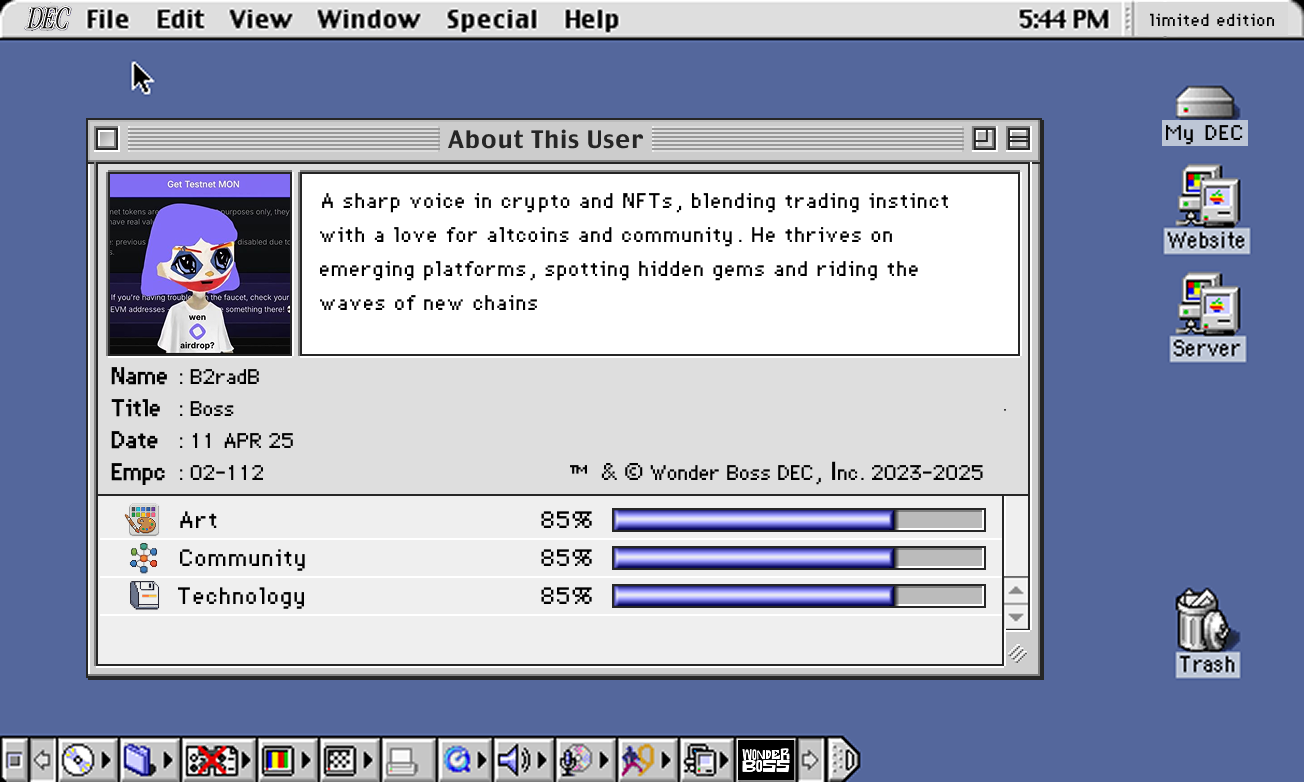
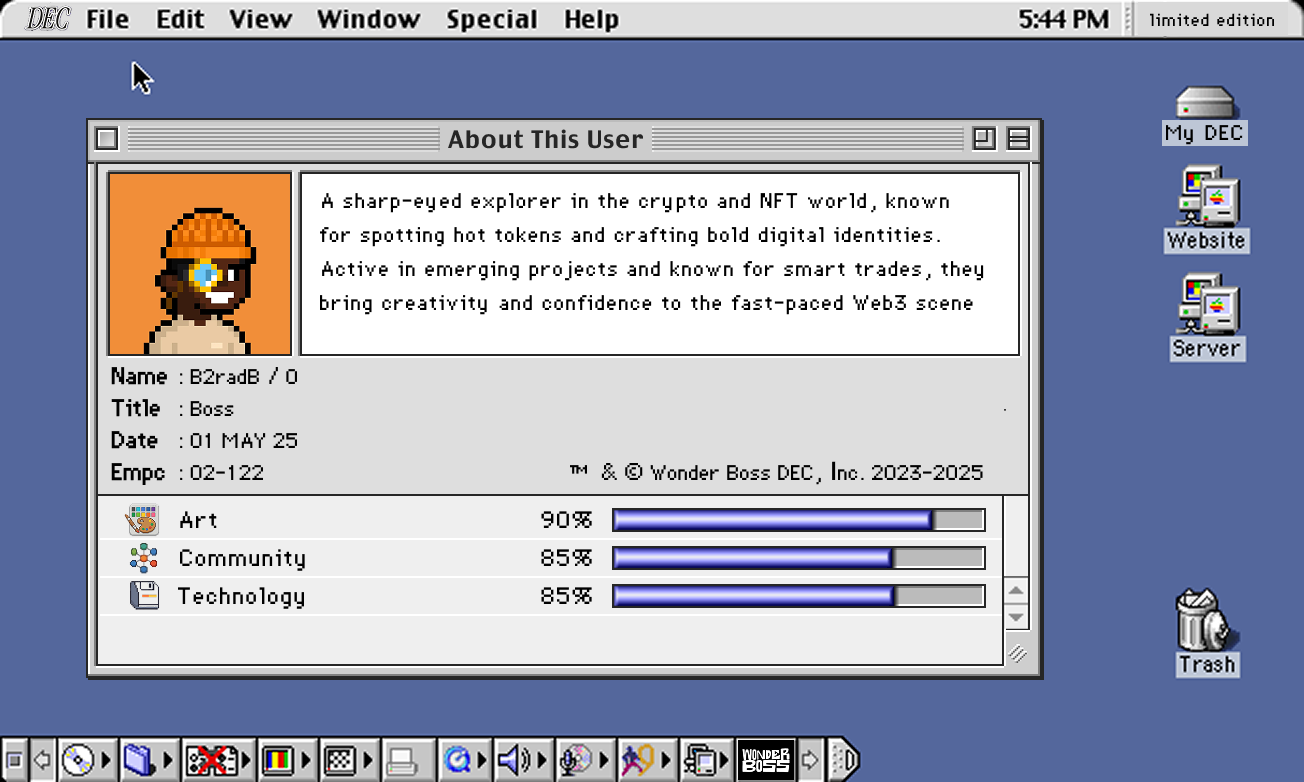
more cards added

diff --git a/app/gallery/page.js b/app/gallery/page.js
@@ -46,8 +46,7 @@ export default function GalleryPage() {
     { name: "JumpStre3t", src: "/cards/JumpStre3t.png" },
     { name: "Kangmasutra", src: "/cards/Kangmasutra.png" },
     { name: "Kennyakins10", src: "/cards/Kennyakins10.png" },
-    { name: "kenny_web_3-a", src: "/cards/kenny_web_3-a.png" },
-    { name: "kenny_web_3", src: "/cards/kenny_web_3.png" },
+    { name: "kenny_web_3", src: "/cards/kenny_web_3-a.png" },
     { name: "kuma_baum", src: "/cards/kuma_baum.png" },
     { name: "kuyajoy_", src: "/cards/kuyajoy_.png" },
     { name: "Lapponic", src: "/cards/Lapponic.png" },
@@ -64,7 +63,6 @@ export default function GalleryPage() {
     { name: "psykoin_", src: "/cards/psykoin_.png" },
     { name: "R3M30", src: "/cards/R3M30.png" },
     { name: "R4M3O", src: "/cards/R4M3O.png" },
-    { name: "R4M3O3", src: "/cards/R4M3O3.png" },
     { name: "rolyttt", src: "/cards/rolyttt.png" },
     { name: "RugDodger", src: "/cards/RugDodger.png" },
     { name: "Seeker87070888", src: "/cards/Seeker87070888.png" },
@@ -77,7 +75,6 @@ export default function GalleryPage() {
     { name: "tHaCrYpToNiNjA", src: "/cards/tHaCrYpToNiNjA.png" },
     { name: "thechaachi", src: "/cards/thechaachi.png" },
     { name: "TheChang_NFT", src: "/cards/TheChang_NFT.png" },
-    { name: "TheChang_NFT2", src: "/cards/TheChang_NFT2.png" },
     { name: "theHAWKdiamond", src: "/cards/theHAWKdiamond.png" },
     { name: "TheSavageSuit", src: "/cards/TheSavageSuit.png" },
     { name: "Tmac_SOL", src: "/cards/Tmac_SOL.png" },
@@ -86,6 +83,58 @@ export default function GalleryPage() {
     { name: "web3_Adri", src: "/cards/web3_Adri.png" },
     { name: "webzy_eth", src: "/cards/webzy_eth.png" },
     { name: "zsolt_patko", src: "/cards/zsolt_patko.png" },
+    { name: "0xfoxx150283", src: "/cards/0xfoxx150283.png" },
+    { name: "aethereums", src: "/cards/aethereums.png" },
+    { name: "Brotomtom", src: "/cards/Brotomtom.png" },
+    { name: "Cris_br_Sol", src: "/cards/Cris_br_Sol.png" },
+    { name: "ghridoy07", src: "/cards/ghridoy07.png" },
+    { name: "gr0uch_", src: "/cards/gr0uch_.png" },
+    { name: "GurhanKutsal", src: "/cards/GurhanKutsal.png" },
+    { name: "Hengki1993", src: "/cards/Hengki1993.png" },
+    { name: "Itachi_On_Chain", src: "/cards/Itachi_On_Chain.png" },
+    { name: "Japs421861", src: "/cards/Japs421861.png" },
+    { name: "Just_los420", src: "/cards/Just_los420.png" },
+    { name: "kramrogNL", src: "/cards/kramrogNL.png" },
+    { name: "Meekisokay", src: "/cards/Meekisokay.png" },
+    { name: "nahimoxf21", src: "/cards/nahimoxf21.png" },
+    { name: "phardy_lekx", src: "/cards/phardy_lekx.png" },
+    { name: "ReeceSolana", src: "/cards/ReeceSolana.png" },
+    { name: "stepn_br", src: "/cards/stepn_br.png" },
+    { name: "lostsol404", src: "/cards/lostsol404.png" },
+    { name: "Smile_Boy_Vibes", src: "/cards/Smile_Boy_Vibes.png" },
+    { name: "0xkidzrich", src: "/cards/0xkidzrich.png" },
+    { name: "Afridi1065616", src: "/cards/Afridi1065616.png" },
+    { name: "BucksBongs", src: "/cards/BucksBongs.png" },
+    { name: "byKrucial", src: "/cards/byKrucial.png" },
+    { name: "geezyart001", src: "/cards/geezyart001.png" },
+    { name: "hapahilo", src: "/cards/hapahilo.png" },
+    { name: "JazzyCripto", src: "/cards/JazzyCripto.png" },
+    { name: "luckysol777", src: "/cards/luckysol777.png" },
+    { name: "MadameFUD", src: "/cards/MadameFUD.png" },
+    { name: "NFTxMAX", src: "/cards/NFTxMAX.png" },
+    { name: "nirvana_aditya", src: "/cards/nirvana_aditya.png" },
+    { name: "obiwanmama", src: "/cards/obiwanmama.png" },
+    { name: "reidonchain", src: "/cards/reidonchain.png" },
+    { name: "schlamber_", src: "/cards/schlamber_.png" },
+    { name: "sguest92", src: "/cards/sguest92.png" },
+    { name: "VanG0xH", src: "/cards/VanG0xH.png" },
+    { name: "WaKuWaKu_Sol", src: "/cards/WaKuWaKu_Sol.png" },
+    { name: "AndreKCrypto", src: "/cards/AndreKCrypto.png" },
+    { name: "Bartmann2828", src: "/cards/Bartmann2828.png" },
+    { name: "Celeste89211", src: "/cards/Celeste89211.png" },
+    { name: "ChrisGa93518537", src: "/cards/ChrisGa93518537.png" },
+    { name: "D_blue_Sol", src: "/cards/D_blue_Sol.png" },
+    { name: "JurassicLeonard", src: "/cards/JurassicLeonard.png" },
+    { name: "KeillahAsh", src: "/cards/KeillahAsh.png" },
+    { name: "kratist0s", src: "/cards/kratist0s.png" },
+    { name: "phukanhq", src: "/cards/phukanhq.png" },
+    { name: "SalitenGreen", src: "/cards/SalitenGreen.png" },
+    { name: "Shisha0815", src: "/cards/Shisha0815.png" },
+    { name: "Taiwo__0", src: "/cards/Taiwo__0.png" },
+    { name: "the_legend_NFTs", src: "/cards/the_legend_NFTs.png" },
+    { name: "vicky_dyor", src: "/cards/vicky_dyor.png" },
+    { name: "XiHumNft", src: "/cards/XiHumNft.png" },
+    { name: "_NoFreeTime", src: "/cards/_NoFreeTime.png" },
   ];
 
   return (
